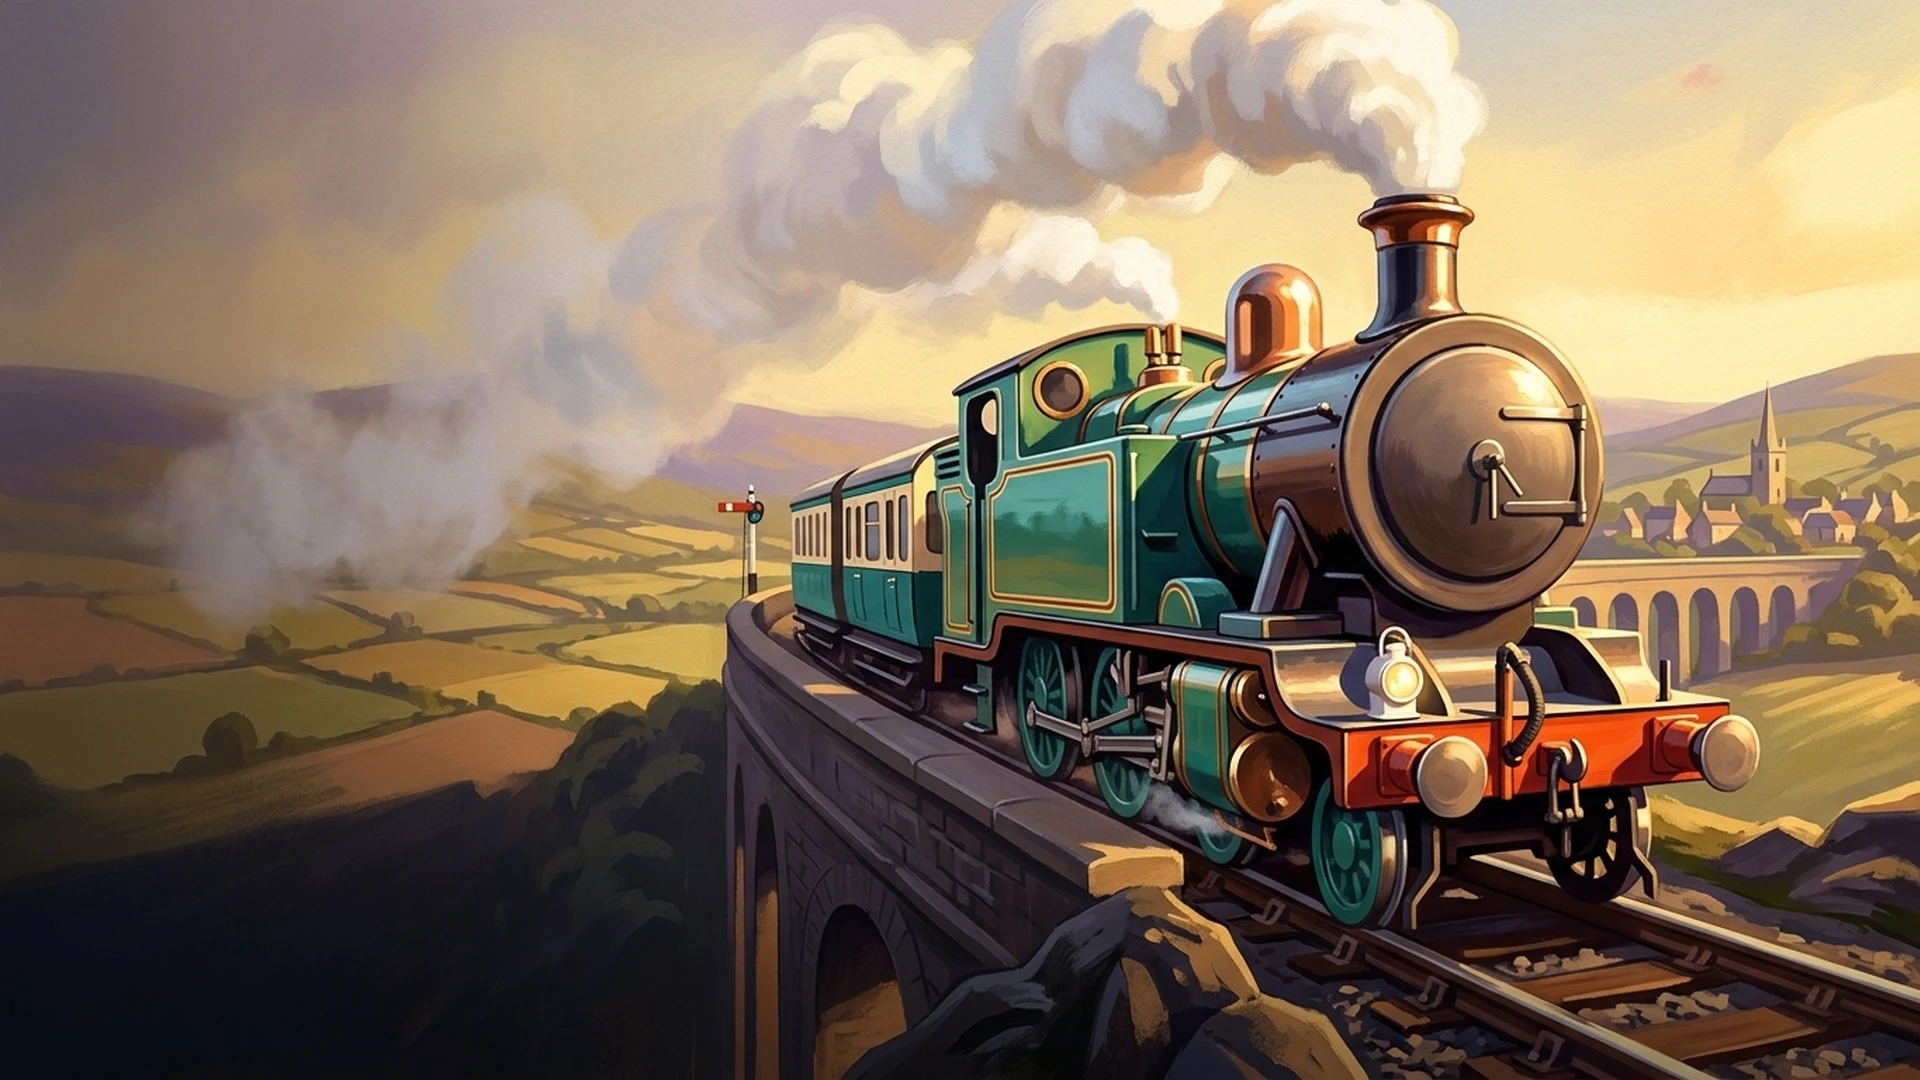
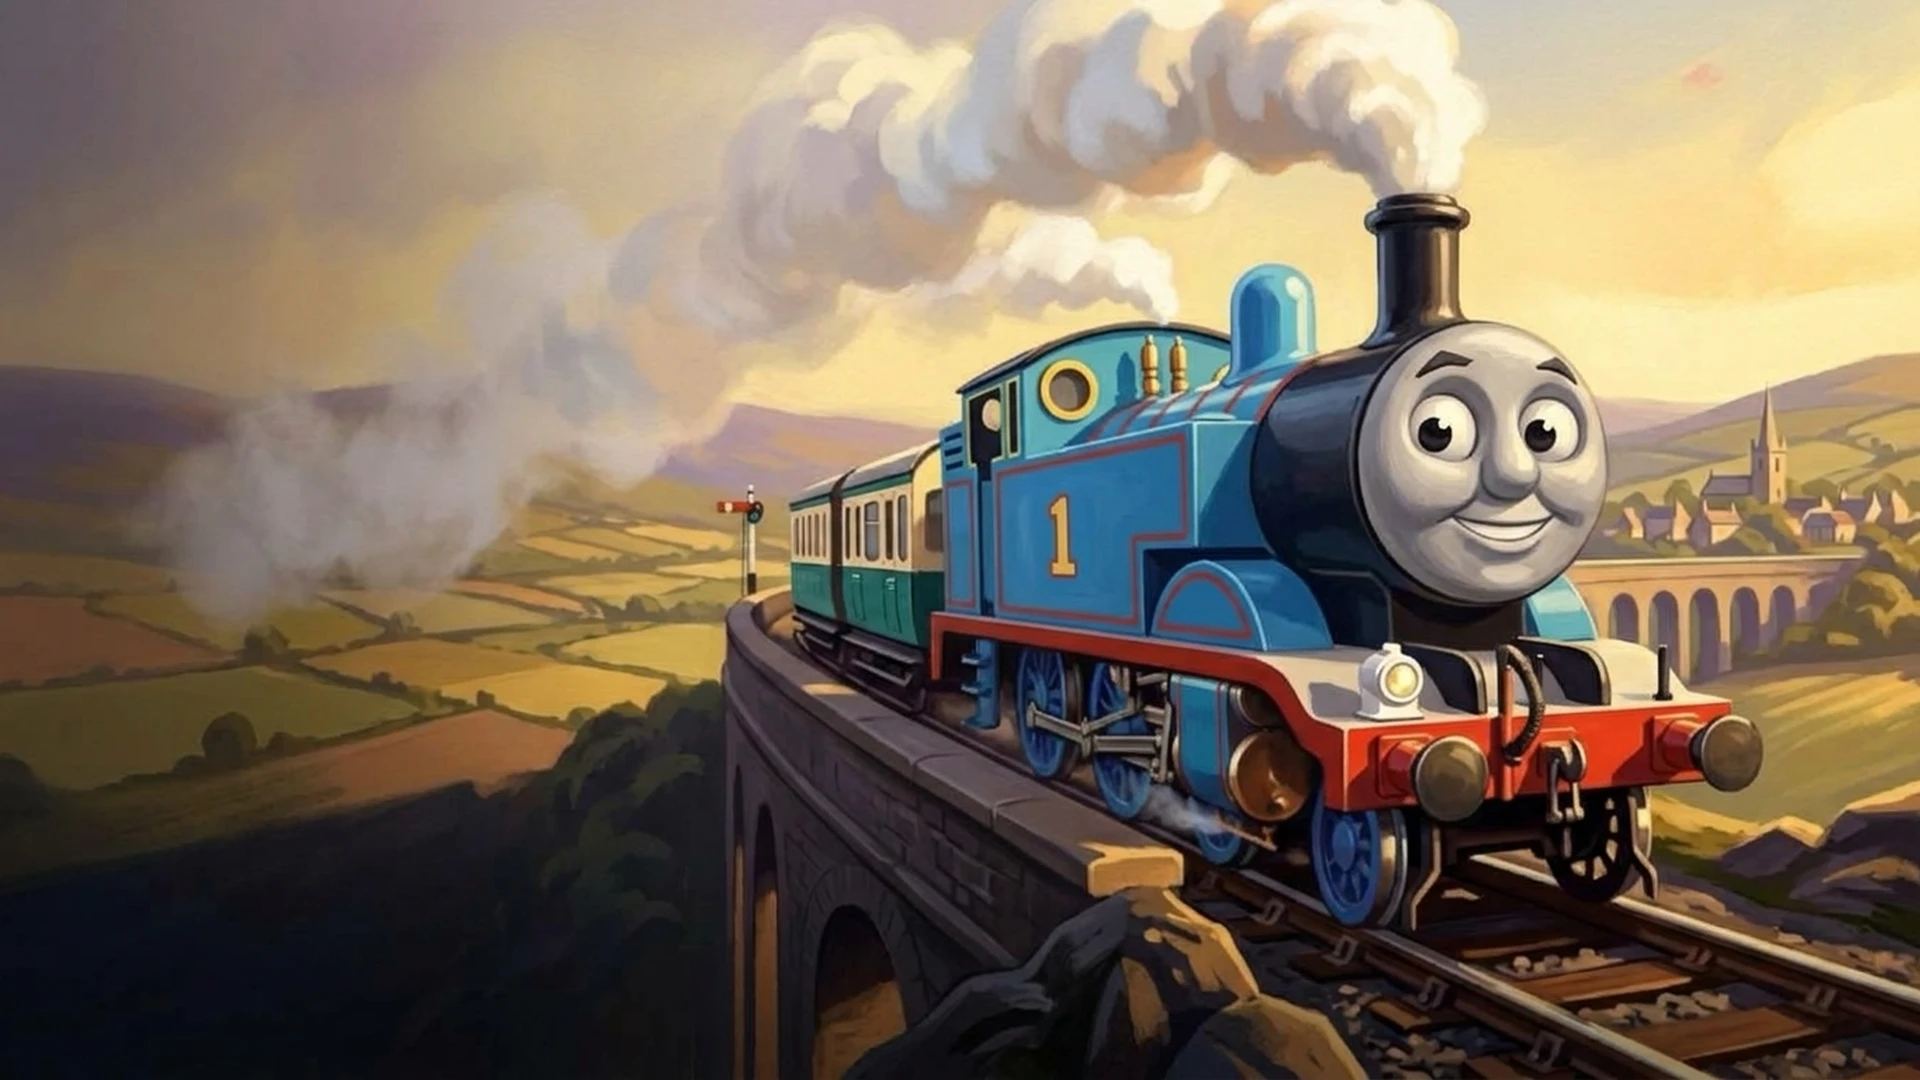
Pippin: install user-supplied steam engine background (fit only)
Claude-Session: https://claude.ai/code/session_01B7tWnGzhwYXUpjDmxMAoUT

Changed region(s): [[0.375, 0.1833, 0.9375, 0.8556], [0.9375, 0.4583, 0.9688, 0.4889], [0.75, 0.8861, 0.7812, 0.9167]]

diff --git a/NIGHTLY_LOG.md b/NIGHTLY_LOG.md
@@ -426,3 +426,4 @@ NAS SYNC PENDING (NAS not mounted): copy to /Volumes/stuff/Emulation/TPN Iconic 
 - 2026-10-10 igspgm REDONE (side cabinets were faded/pale): glossy black bodies and vivid ORIENTAL LEGEND / KNIGHTS OF VALOUR vinyl, red PGM standard centre cabinet. Gemini drew thin green gaps between cabinets (first try only cut out one cabinet), so added _tools/cutout_green_group.py which keeps all cabinets and bridges the gaps with a dark fill. Raws: sources/igspgm/igspgm_cab_3cab_v2_black_gemini_raw.jpeg (rejected), igspgm_cab_3cab_v3_black_gemini_raw.jpeg (installed). Faded v1: replaced/controllers-igspgm-v1-faded.webp. Side vinyl panels are fairly flat/wide compared with the OG CPS2 look - user to review. Scan result: segasystem32, aleck64 and namco11 groups are fine (vivid); unis was already moved to mockups/verified by the user so left alone (its side bodies look pale). Mockups regenerated into mockups/ because the verified copies were older than the art: seganu, segarw.
 - 2026-10-10 pippin: user says the rally coupe background does not fit; kept for a future generic car system in sources/spare/spare_generic_car_rally_coupe_hairpin_pippin.webp (+ _raw.jpg) and replaced/backgrounds-pippin-rally-coupe.webp. New Pippin background: original steam tank engine tribute (in progress).
 - 2026-10-10 pippin: NEW background installed: original storybook steam tank engine (teal-green with copper and brass, no face, no numbers or lettering) crossing a stone viaduct at golden hour, a nod to classic British tank-engine stories (not any specific character). Raw: sources/pippin/pippin_bg_steam_engine_gemini_raw.jpeg. Mockup: mockups/pippin.jpg. Rally coupe kept in sources/spare/ for a future generic car system.
+- 2026-10-10 pippin: installed the user's own supplied background (1377x768 blue tank engine scene, fit/crop to 1920x1080 only, no generation). My original teal-green engine version kept as replaced/backgrounds-pippin-steam-engine-original-v1.webp and sources/pippin/pippin_bg_steam_engine_gemini_raw.jpeg. User-supplied file: sources/pippin/pippin_bg_user_supplied.jpg. Note: it depicts a well-known licensed character, so it is for the user's personal theme only; do not redistribute publicly.

diff --git a/CREDITS-TPN.md b/CREDITS-TPN.md
@@ -76,3 +76,4 @@ Per-system sources are listed in _tools/salvage_log.tsv.
 - UNIS Arcade Machines (unis): background and three-cabinet system image generated with Google Gemini (original kart racer; the Sky Kart and Ticket Rush cabinets are invented); logo from the TPN Carbon theme, sticker-styled.
 - RAW Thrills (rawthrills): background generated with Google Gemini (original unbadged coupe, inspired by The Fast and the Furious); system image is a Google Gemini three-cabinet group built from the TPN Carbon PixN RAW Thrills cabinet (side games FAST LANE and ALIEN SIEGE are invented); logo from the TPN Carbon theme on a black plate, sticker-styled.
 - Pippin @mark (pippin): background redone 2026-10-10 with Google Gemini (original teal-green and copper steam tank engine on a stone viaduct, a generic tribute to classic British tank-engine stories); replaces the rally coupe, which is kept in sources/spare for a future generic car system.
+- Pippin @mark (pippin): background supplied by the user (not generated by Claude); a steam-engine tribute scene. Contains a well-known licensed character - personal use only, not for public redistribution.
